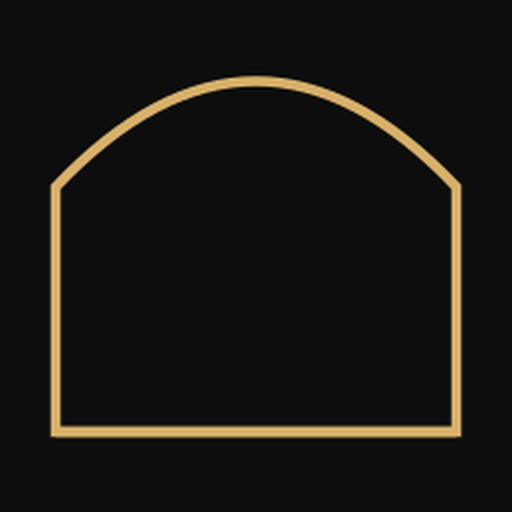
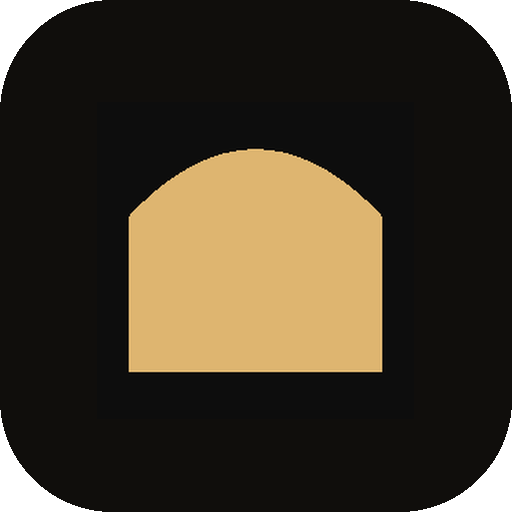
fix: 로그인 조회 실패해도 사이트 전체 안 죽게 + 파비콘을 솔리드 아이콘으로 교체
- lib/supabase/server.ts: getUserSafe() 추가. RootLayout이 모든 페이지를
  감싸는 구조라 getUser()가 실패하면(env var 누락, Supabase 장애 등)
  사이트 전체가 500이 났다. 격리된 워크트리에서 NEXT_PUBLIC_SUPABASE_*
  env var를 지운 채로 재현해서 확인함 — 실제 프로덕션 장애도 이 케이스일
  가능성이 높다(Cloudflare 빌드 환경변수가 build-time 단계에 실제로는
  안 들어가 있었을 것으로 추정, 확인 필요).
- app/layout.tsx: getUser() 대신 getUserSafe() 사용, 실패하면 로그아웃
  상태로 취급.
- 파비콘: 얇은 외곽선만 있던 이전 버전은 작은 사이즈에서 흐릿하게 보여서,
  안을 솔리드로 채우고 둥근 사각 배경(app icon 스타일)으로 다시 만듦.

diff --git a/lib/supabase/server.ts b/lib/supabase/server.ts
@@ -34,10 +34,31 @@ export async function createClient() {
               cookieStore.set(name, value, options);
             }
           } catch {
-            // 서버 컴포넌트에서 호출된 경우 — proxy.ts가 세션 갱신을 대신 처리한다.
+            // 서버 컴포넌트에서 호출된 경우 — 이 요청 한정으로만 갱신된
+            // 토큰을 못 쓰고 넘어간다 (server.ts 상단 설명 참고).
           }
         },
       },
     },
   );
+}
+
+/**
+ * getUser()를 호출하되 절대 던지지 않는다. RootLayout처럼 모든 페이지를
+ * 감싸는 곳에서 그대로 getUser()를 쓰면, env var가 빠졌거나 Supabase가
+ * 잠깐이라도 응답을 안 하는 순간 사이트 전체가 500으로 죽는다 — 로그인
+ * 상태 표시는 로그인 기능 자체보다 덜 중요하니 실패하면 "로그아웃 상태"로
+ * 취급하고 넘어간다.
+ */
+export async function getUserSafe() {
+  try {
+    const supabase = await createClient();
+    const {
+      data: { user },
+    } = await supabase.auth.getUser();
+    return user;
+  } catch (error) {
+    console.error("getUserSafe failed:", error);
+    return null;
+  }
 }

diff --git a/app/layout.tsx b/app/layout.tsx
@@ -2,7 +2,7 @@ import type { Metadata } from "next";
 import { Geist, Geist_Mono } from "next/font/google";
 import Link from "next/link";
 import { signOut } from "@/app/actions/auth";
-import { createClient } from "@/lib/supabase/server";
+import { getUserSafe } from "@/lib/supabase/server";
 import "./globals.css";
 
 const geistSans = Geist({
@@ -22,10 +22,9 @@ export const metadata: Metadata = {
 };
 
 export default async function RootLayout({ children }: LayoutProps<"/">) {
-  const supabase = await createClient();
-  const {
-    data: { user },
-  } = await supabase.auth.getUser();
+  // 로그인 상태 조회가 실패해도(env var 누락, Supabase 장애 등) 절대
+  // 사이트 전체를 죽이지 않는다 — 실패하면 로그아웃 상태로 취급한다.
+  const user = await getUserSafe();
 
   return (
     <html
